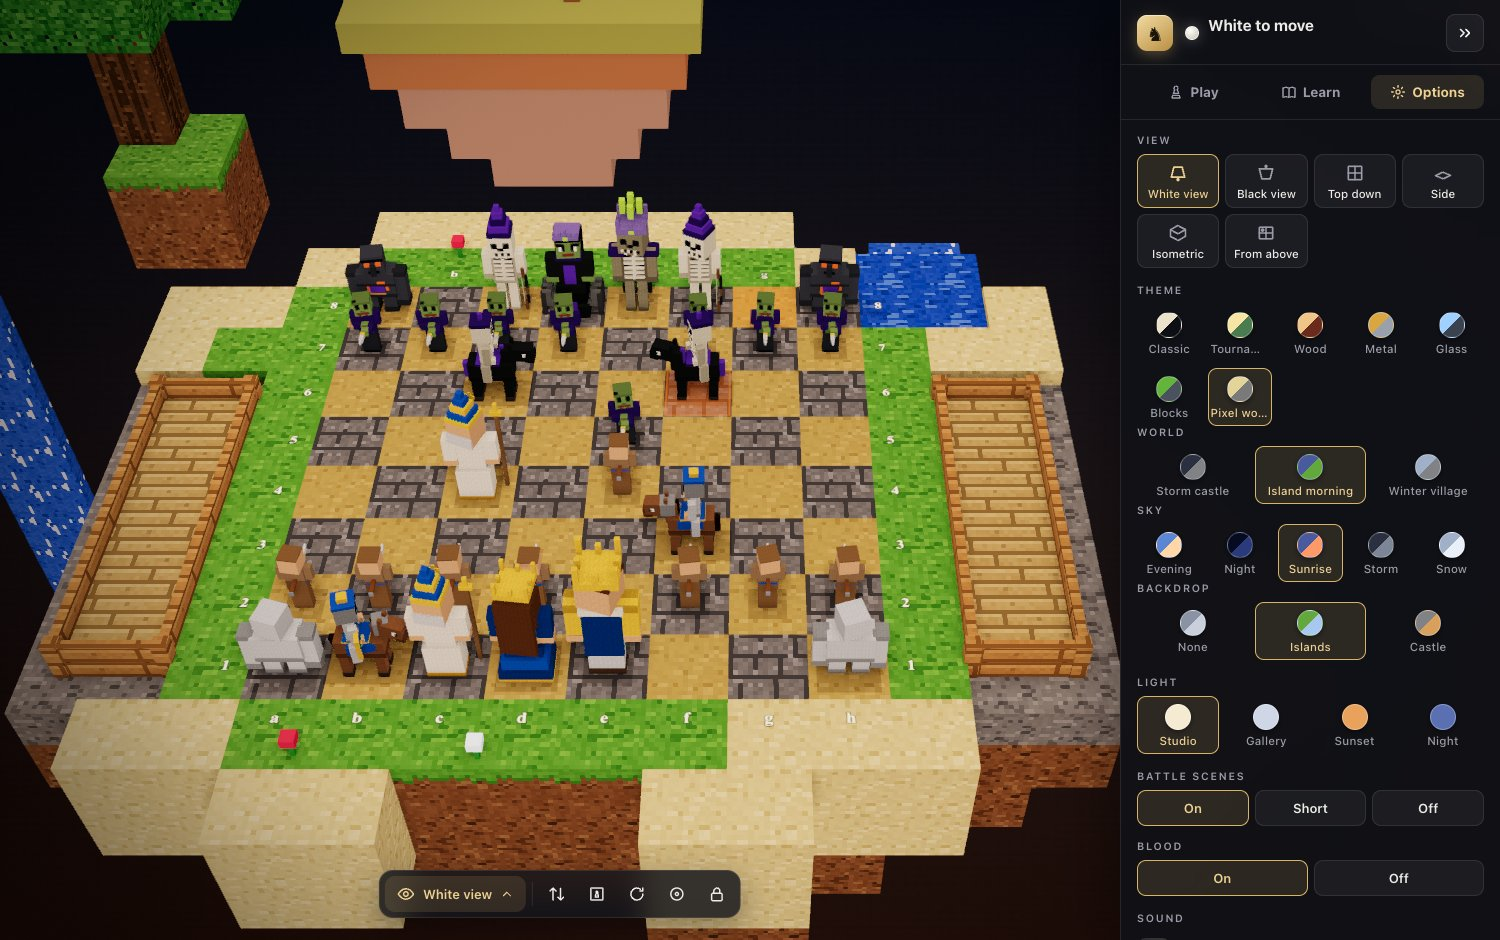
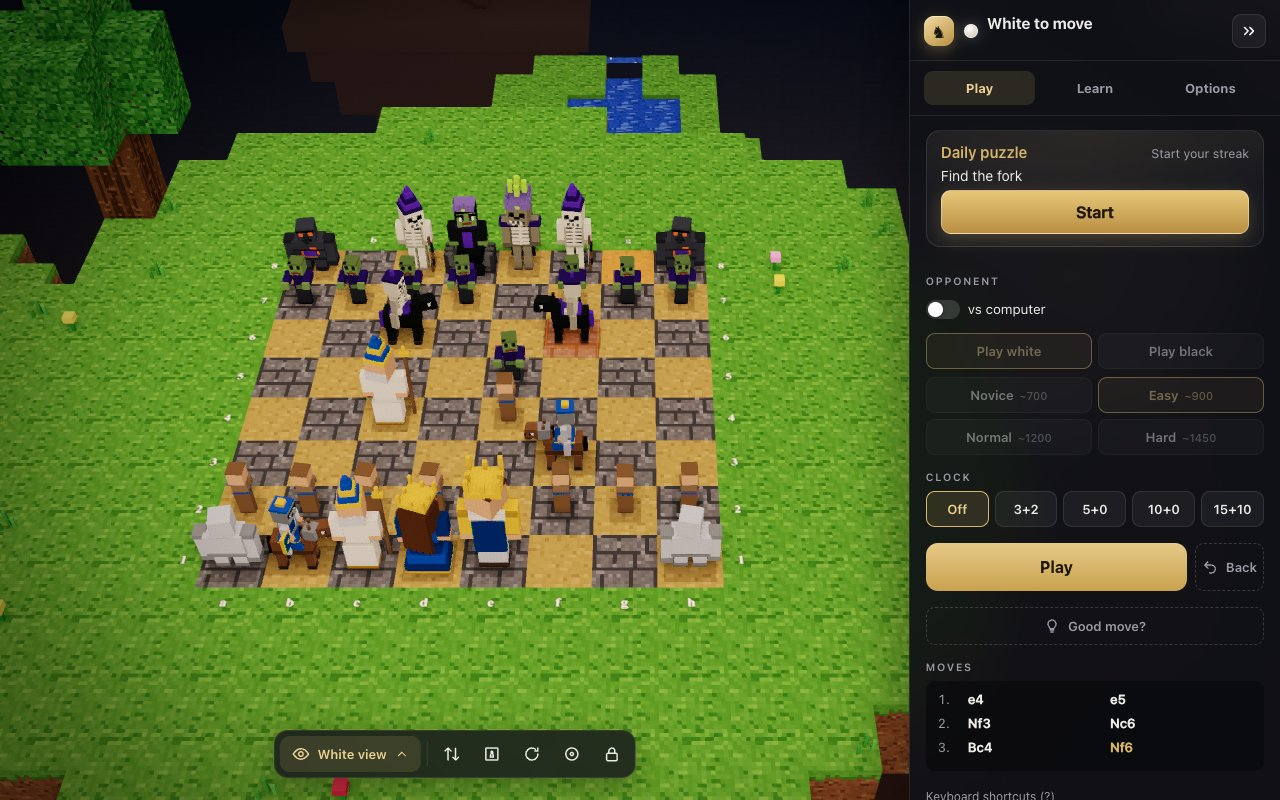
Release screenshots: Pixelwelt without crates, Options with Island row, Pieces row

diff --git a/README.md b/README.md
@@ -30,9 +30,13 @@ The Tournament theme (vinyl green and warm cream squares) and the Pixelwelt them
 
 ![Pixelwelt theme](docs/pixel.jpg)
 
-The Options tab with the tiles for Theme, World, Sky, Backdrop and Light.
+The Options tab with the tiles for Theme, World, Sky, Backdrop, Island and Light (Pixelwelt shown).
 
 ![Options tiles](docs/settings-tiles.jpg)
+
+The Pieces row (here Fantasy on the Wood theme) picks another set of figures for the Classic, Tournament, Wood, Metal and Glass themes.
+
+![Fantasy pieces and the Pieces row](docs/pieces.jpg)
 
 The chess clock (here 5+0, chosen in Options) with a face for each side, and the Badges card with the daily puzzle card on the Play tab.
 
